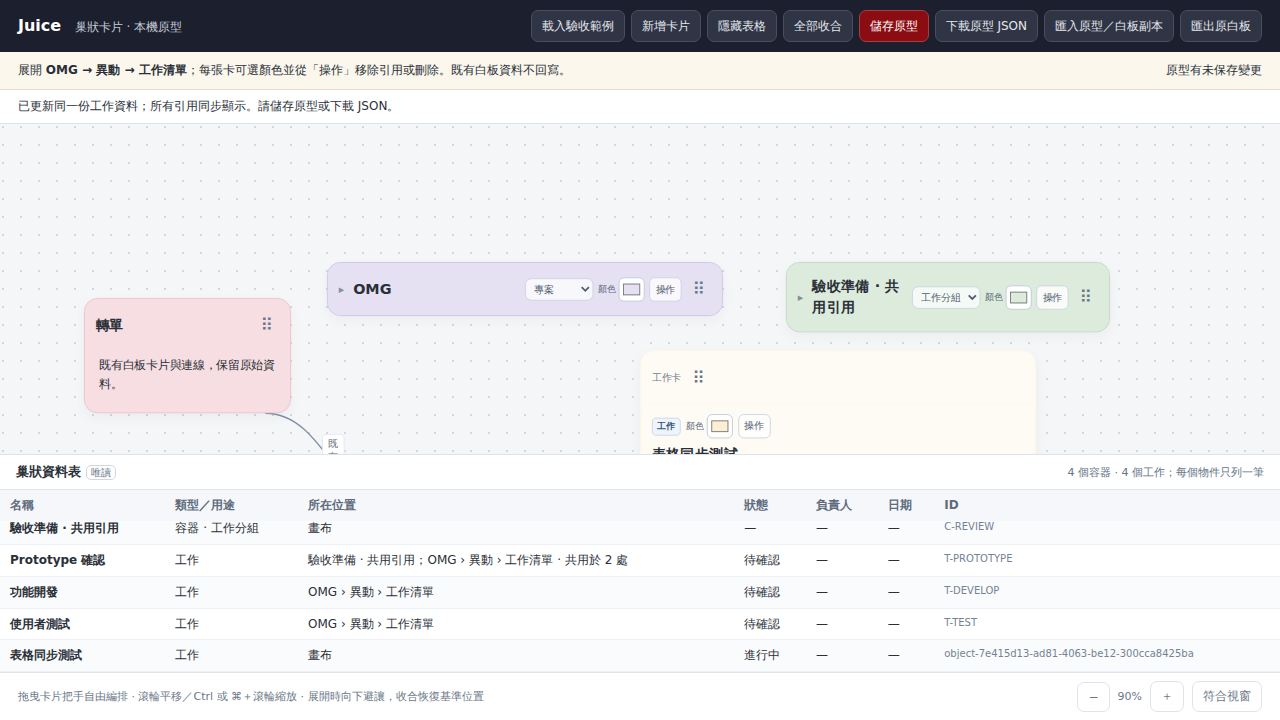
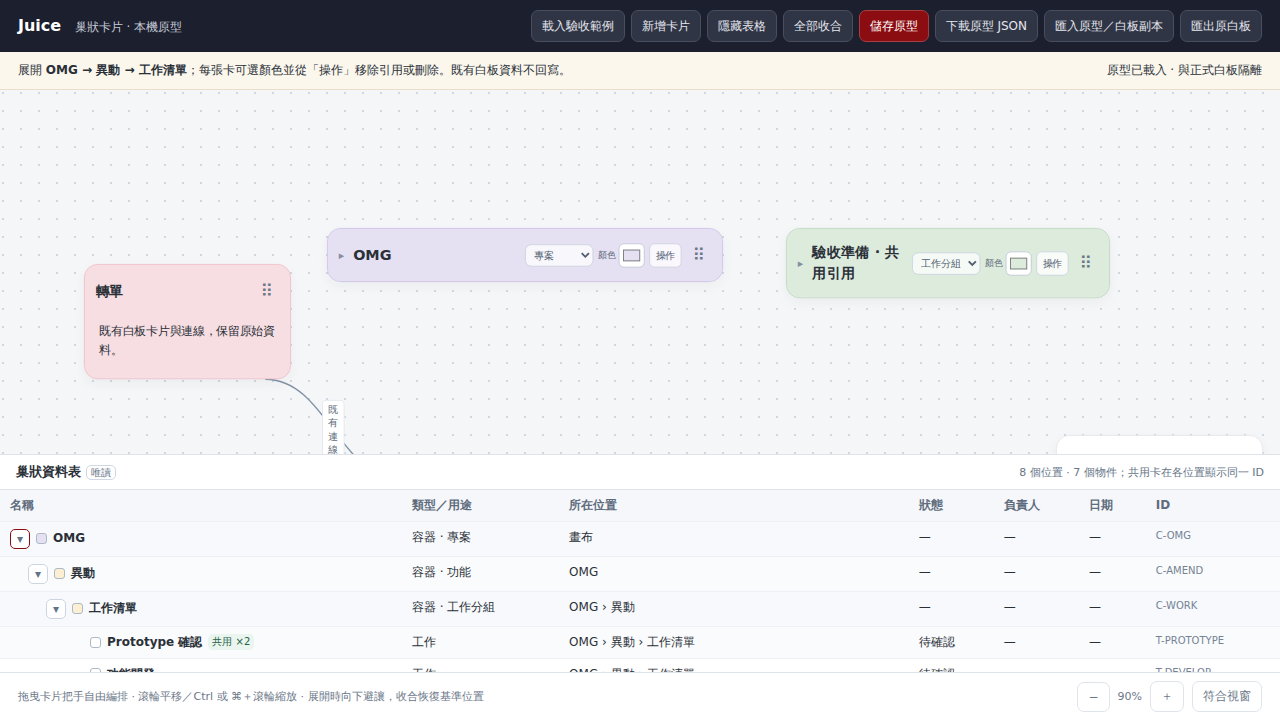
Show nested references in read-only tree table

diff --git a/assets/nested-app.js b/assets/nested-app.js
@@ -5,7 +5,7 @@
   const purposes={general:'一般容器',project:'專案',feature:'功能','work-group':'工作分組'};
   const colors={paper:['#fff','#e6e8ec'],amber:['#fcefd3','#f2dda8'],sage:['#ddebdd','#bfd8bf'],blue:['#d8e6f5','#b5cfec'],rose:['#f7dee2','#efc2ca'],lavender:['#e6e0f3','#cfc3e8'],grey:['#eaecef','#d5d9df']};
   const canvas=$('canvas'),world=$('world'),content=$('content');let state=null,normalized=null,dirty=false,frame=null,observer=null,savedRaw=null,loading=false;
-  let items=[],positions=new Map(),pickerAction=null,dragging=null,revealPath=null;const drafts=new Map();
+  let items=[],positions=new Map(),pickerAction=null,dragging=null,revealPath=null;const drafts=new Map(),tableCollapsed=new Set();
   const NS='http://www.w3.org/2000/svg';
   function el(tag,text,cls){const n=document.createElement(tag);if(text!==undefined)n.textContent=text;if(cls)n.className=cls;return n;}
   function button(text,fn,cls){const b=el('button',text,cls);b.type='button';b.addEventListener('click',fn);return b;}
@@ -25,8 +25,9 @@
   function attempt(fn){try{fn();}catch(e){say(e.message,true);}}
   function toggle(path,key){attempt(()=>{state=C.toggle(state,path,key);revealPath=key==='details'&&state.ui.details.includes(path)?path:null;changed();render();});}
   function refCount(id){return state.memberships.filter(e=>e.objectId===id).length+state.placements.filter(p=>p.objectId===id).length;}
-  function tableLocations(){const byId=new Map(),overflow=new Set(),children=new Map();for(const edge of state.memberships){if(!children.has(edge.containerId))children.set(edge.containerId,[]);children.get(edge.containerId).push(edge);}const queue=state.placements.map(p=>({id:p.objectId,route:p.id,parents:[]}));for(let i=0;i<queue.length;i++){const item=queue[i],paths=byId.get(item.id)||[];if(paths.length>=4){overflow.add(item.id);continue;}paths.push({route:item.route,label:item.parents.join(' › ')||'畫布'});byId.set(item.id,paths);const parent=object(item.id);for(const edge of children.get(item.id)||[])queue.push({id:edge.objectId,route:item.route+'/'+edge.id,parents:[...item.parents,parent.title]});}return {byId,overflow};}
-  function renderTable(){if(!state)return;const {byId,overflow}=tableLocations(),body=$('tableRows');body.replaceChildren();for(const o of state.objects){const row=el('tr');row.dataset.objectId=o.id;const paths=[...new Set((byId.get(o.id)||[]).map(p=>p.label))],count=refCount(o.id),place=(paths.join('；')||'未放置')+(overflow.has(o.id)?'；其他位置…':'')+(count>1?' · 共用於 '+count+' 處':'');for(const value of [o.title,o.type==='container'?'容器 · '+(purposes[o.purpose||'general']||'一般容器'):'工作',place,o.type==='task'?names[o.status||'unknown']:'—',o.type==='task'?o.owner||'—':'—',o.type==='task'?o.dueDate||'—':'—',o.id])row.append(el('td',value));body.append(row);}const containers=state.objects.filter(o=>o.type==='container').length;$('tableCount').textContent=containers+' 個容器 · '+(state.objects.length-containers)+' 個工作；每個物件只列一筆';}
+  function renderTable(){if(!state)return;const body=$('tableRows'),children=new Map(),limit=500;body.replaceChildren();for(const edge of state.memberships){if(!children.has(edge.containerId))children.set(edge.containerId,[]);children.get(edge.containerId).push(edge);}let shown=0,truncated=false;
+    function visit(id,path,parents,depth){if(shown>=limit){truncated=true;return;}const o=object(id);if(!o)return;const row=el('tr');row.dataset.objectId=id;row.dataset.path=path;row.dataset.depth=String(depth);row.dataset.type=o.type;const nameCell=el('td'),name=el('div',undefined,'table-name');name.style.paddingLeft=Math.min(depth,8)*18+'px';if(o.type==='container'){const open=!tableCollapsed.has(path),toggle=button(open?'▾':'▸',()=>{open?tableCollapsed.add(path):tableCollapsed.delete(path);renderTable();},'table-branch');toggle.setAttribute('aria-label',(open?'收合表格 ':'展開表格 ')+o.title);toggle.setAttribute('aria-expanded',String(open));name.append(toggle);}else name.append(el('span','', 'table-spacer'));const swatch=el('span',undefined,'table-swatch');swatch.style.background=/^#[0-9a-fA-F]{6}$/.test(o.color||'')?o.color:colors[o.color||'paper']?.[0]||'#fff';name.append(swatch,el('span',o.title));const count=refCount(id);if(count>1)name.append(el('span','共用 ×'+count,'table-shared'));nameCell.append(name);row.append(nameCell);for(const value of [o.type==='container'?'容器 · '+(purposes[o.purpose||'general']||'一般容器'):'工作',parents.join(' › ')||'畫布',o.type==='task'?names[o.status||'unknown']:'—',o.type==='task'?o.owner||'—':'—',o.type==='task'?o.dueDate||'—':'—',o.id])row.append(el('td',value));body.append(row);shown++;if(o.type==='container'&&!tableCollapsed.has(path))for(const edge of children.get(id)||[])visit(edge.objectId,path+'/'+edge.id,[...parents,o.title],depth+1);}
+    for(const p of state.placements)visit(p.objectId,p.id,[],0);if(truncated){const row=el('tr'),cell=el('td','已顯示 500 個位置；收合部分群組後可查看其他分支。','table-limit');cell.colSpan=7;row.append(cell);body.append(row);} $('tableCount').textContent=shown+' 個位置 · '+state.objects.length+' 個物件；共用卡在各位置顯示同一 ID';}
   function quickUpdate(id,field,value){attempt(()=>{state=C.patchTask(state,id,{[field]:value});changed();refreshReferences(id);renderTable();say('已更新同一份工作資料；所有引用同步顯示。請儲存原型或下載 JSON。');});}
   function refreshReferences(id){const o=object(id);for(const node of content.querySelectorAll('[data-task-id]')){if(node.dataset.taskId!==id)continue;node.querySelector('.task-title').textContent=o.title;node.querySelector('.reference-count').textContent=referenceText(o);node.querySelector('.task-date').textContent='日期：'+(o.dueDate||'待確認');for(const f of node.querySelectorAll('[data-quick-field]'))f.value=f.dataset.quickField==='status'?o.status||'unknown':o.owner||'';}scheduleLayout();}
   function taskCard(o,path){
@@ -99,7 +100,7 @@
   $('add').onclick=()=>{const type=field('卡片類型','select',[['container','容器卡'],['task','工作卡']]),purpose=field('容器用途','select',Object.entries(purposes)),title=field('標題','text'),shade=field('卡片顏色','color');title.input.required=true;title.input.maxLength=200;shade.input.value='#fcefd3';type.input.addEventListener('change',()=>{purpose.wrap.hidden=type.input.value!=='container';});showPicker('新增畫布卡片',[type.wrap,purpose.wrap,title.wrap,shade.wrap],()=>{const v=state.ui.view,p={x:(canvas.clientWidth/2-v.x)/v.zoom,y:(100-v.y)/v.zoom,w:440,h:220};for(let pass=0;pass<=positions.size;pass++){const hits=[...positions.values()].filter(b=>C.overlaps(p,b,20));if(!hits.length)break;p.y=Math.max(...hits.map(b=>b.y+b.h+20));}state=C.addObject(state,type.input.value,title.input.value,p,purpose.input.value,shade.input.value);changed();render();});};
   $('pickerCancel').onclick=()=>$('picker').close();$('pickerForm').onsubmit=e=>{e.preventDefault();try{pickerAction();$('picker').close();}catch(err){$('pickerError').textContent=err.message;}};
   function canReplace(){return !(dirty||drafts.size)||confirm('有未保存的原型修改，確定捨棄並載入其他資料？');}
-  function adopt(d){const next=C.validate(d),board=Base.normalize(next.board);state=next;normalized=board;drafts.clear();dirty=false;render();}
+  function adopt(d){const next=C.validate(d),board=Base.normalize(next.board);state=next;normalized=board;drafts.clear();tableCollapsed.clear();dirty=false;render();}
   $('demo').onclick=()=>{if(canReplace()){adopt(C.seed());say('驗收範例已載入；狀態、負責人與日期都保留待確認。');}};
   $('collapse').onclick=()=>{state.ui.expanded=[];state.ui.details=[];changed();render();say('已全部收合；避讓位置重新從基準座標計算，不改寫原白板。');};
   function readyToSave(){if(drafts.size){say('請先儲存或還原工作卡的詳細編輯，再保存原型。',true);return false;}return true;}

diff --git a/assets/nested-cards.css b/assets/nested-cards.css
@@ -6,6 +6,7 @@ header button{font-size:12px;color:#e4e7ee;background:#303545;border-color:#484e
 .notice{display:flex;justify-content:space-between;flex-wrap:wrap;gap:8px;padding:9px 18px;background:#fbf7ed;border-bottom:1px solid #e9dfc8;font-size:12px;line-height:1.6}#savedState{font-weight:500}#message{font-size:12px;margin:0;padding:0 18px;line-height:1.7}#message:not(:empty){padding-top:6px;padding-bottom:6px;border-bottom:1px solid var(--line);background:white}#message.error{color:#a00}
 #canvas{position:relative;flex:1;min-height:240px;overflow:hidden;background-color:#f5f6f8;background-image:radial-gradient(#ced7e2 1.2px,transparent 1.2px);background-size:20px 20px;touch-action:none;cursor:grab}#canvas.panning{cursor:grabbing}#world{position:absolute;top:0;left:0;transform-origin:0 0}#links{position:absolute;top:0;left:0;width:1px;height:1px;overflow:visible;pointer-events:none;z-index:0}
 .table-panel{flex:none;height:218px;min-height:140px;display:flex;flex-direction:column;background:#fff;border-top:1px solid var(--line)}.table-panel[hidden]{display:none}.table-heading{display:flex;align-items:baseline;justify-content:space-between;gap:12px;padding:8px 16px;border-bottom:1px solid var(--line)}.table-heading h2{font-size:13px;margin:0}.table-heading h2 span{font-size:10px;font-weight:400;color:#667587;border:1px solid #cfd8e2;border-radius:5px;padding:1px 4px}.table-heading p{font-size:11px;color:#667587;margin:0}.table-scroll{min-height:0;overflow:auto;flex:1}.table-panel table{border-collapse:collapse;width:100%;min-width:830px;font-size:12px}.table-panel th,.table-panel td{text-align:left;vertical-align:top;border-bottom:1px solid #edf0f4;padding:7px 10px;line-height:1.4}.table-panel th{position:sticky;top:0;background:#f5f7fa;color:#5e6c7d;z-index:1;white-space:nowrap}.table-panel tbody tr:nth-child(even){background:#fafbfc}.table-panel td:first-child{font-weight:600}.table-panel td:nth-child(3){min-width:230px;max-width:410px;overflow-wrap:anywhere}.table-panel td:last-child{font-size:10px;color:#748294;white-space:nowrap}
+.table-panel tr[data-type="container"]{background:#f7f9fc}.table-name{display:flex;align-items:center;gap:6px;min-width:180px}.table-branch{min-width:20px;width:20px;height:20px;min-height:20px;padding:0;border:1px solid #ccd6e2;border-radius:5px;background:white;color:#60748c;font-size:12px;line-height:1}.table-spacer{width:20px;flex:none}.table-swatch{width:11px;height:11px;flex:none;border:1px solid #aeb9c6;border-radius:3px}.table-shared{flex:none;border-radius:5px;background:#e9f5ee;color:#286248;padding:1px 4px;font-size:10px;font-weight:500}.table-panel .table-limit{color:#8b491c;background:#fff7eb;font-weight:500}
 .legacy-edge{stroke:#8191a5;stroke-width:1.5;fill:none}.legacy-tip{fill:#8191a5}.edge-label{position:absolute;transform:translate(-50%,-50%);font-size:11px;color:#5e6b7b;background:#fff;padding:2px 6px;border:1px solid #e2e6ec;border-radius:5px;z-index:2;pointer-events:none;max-width:240px;overflow-wrap:anywhere}
 .board-card{position:absolute;border:1px solid var(--line);border-radius:15px;background:#fff;box-shadow:0 5px 13px #1f29370b;cursor:default;transition:box-shadow .14s ease;z-index:3}.board-card.dragging{transition:none!important;z-index:8!important;box-shadow:0 8px 30px #1f293728}.board-card.menu-open{z-index:12}.board-card.avoided{box-shadow:0 5px 16px #1f293714}
 .board-card .card-head{display:flex;align-items:center;gap:5px;min-height:58px;padding:8px 12px}.drag-handle{background:transparent;border:0;color:#697786;cursor:grab;padding:4px;min-width:28px;min-height:30px;font-size:19px;touch-action:none}.drag-handle:active{cursor:grabbing}

diff --git a/nested-cards.html b/nested-cards.html
@@ -1,5 +1,5 @@
 <!doctype html>
-<html lang="zh-Hant"><head><meta charset="UTF-8"><meta name="viewport" content="width=device-width,initial-scale=1"><title>Juice · 巢狀卡片原型</title><link rel="stylesheet" href="assets/nested-cards.css?v=table-1"></head>
+<html lang="zh-Hant"><head><meta charset="UTF-8"><meta name="viewport" content="width=device-width,initial-scale=1"><title>Juice · 巢狀卡片原型</title><link rel="stylesheet" href="assets/nested-cards.css?v=hierarchy-1"></head>
 <body>
 <header><div class="brand">Juice <span>巢狀卡片 · 本機原型</span></div><div class="tools"><button id="demo">載入驗收範例</button><button id="add">新增卡片</button><button id="toggleTable" type="button" aria-controls="tablePanel" aria-expanded="true">隱藏表格</button><button id="collapse">全部收合</button><button id="save">儲存原型</button><button id="export">下載原型 JSON</button><button id="import">匯入原型／白板副本</button><button id="sourceExport">匯出原白板</button><input id="file" type="file" accept=".json,application/json" hidden></div></header>
 <div class="notice"><span>展開 <strong>OMG → 異動 → 工作清單</strong>；每張卡可選顏色並從「操作」移除引用或刪除。既有白板資料不回寫。</span><span id="savedState" role="status"></span></div>
@@ -8,5 +8,5 @@
 <section id="tablePanel" class="table-panel" aria-labelledby="tableTitle"><div class="table-heading"><h2 id="tableTitle">巢狀資料表 <span>唯讀</span></h2><p id="tableCount" aria-live="polite"></p></div><div class="table-scroll"><table aria-label="巢狀資料唯讀表"><thead><tr><th scope="col">名稱</th><th scope="col">類型／用途</th><th scope="col">所在位置</th><th scope="col">狀態</th><th scope="col">負責人</th><th scope="col">日期</th><th scope="col">ID</th></tr></thead><tbody id="tableRows"></tbody></table></div></section>
 <footer><span>拖曳卡片把手自由編排 · 滾輪平移／Ctrl 或 ⌘＋滾輪縮放 · 展開時向下避讓，收合恢復基準位置</span><div><button id="zoomOut" aria-label="縮小白板">−</button><span id="zoom">90%</span><button id="zoomIn" aria-label="放大白板">＋</button><button id="fit">符合視窗</button></div></footer>
 <dialog id="picker"><form id="pickerForm"><h2 id="pickerTitle"></h2><div id="pickerFields"></div><p id="pickerError" role="alert"></p><div class="dialog-actions"><button type="button" id="pickerCancel">取消</button><button type="submit">確認</button></div></form></dialog>
-<script id="peleLib" async src="https://cdn.jsdelivr.net/npm/pele@1.9.0/dist/pele.global.js"></script><script src="assets/core.js"></script><script src="assets/pele-flow.js"></script><script src="assets/nested-core.js?v=manage-1"></script><script src="assets/nested-app.js?v=table-1"></script>
+<script id="peleLib" async src="https://cdn.jsdelivr.net/npm/pele@1.9.0/dist/pele.global.js"></script><script src="assets/core.js"></script><script src="assets/pele-flow.js"></script><script src="assets/nested-core.js?v=manage-1"></script><script src="assets/nested-app.js?v=hierarchy-1"></script>
 </body></html>

diff --git a/docs/nested-cards.md b/docs/nested-cards.md
@@ -11,7 +11,7 @@
 5. 展開後附近卡片向下避讓，連線端點跟著更新。按「全部收合」會恢復基準座標。拖曳把手或用方向鍵移動，可自行編排；滾輪平移、Ctrl／⌘＋滾輪縮放，底部可符合視窗。
 6. 按 **儲存原型** 後重新整理，核對引用、資料、展開狀態與位置。也可下載原型 JSON，再從「匯入原型／白板副本」重開。
 7. 每張巢狀卡可直接選「顏色」。卡片上的「操作」可移除此處引用，或刪除卡片本身；刪除前會要求確認。移除最後一處巢狀引用時，卡片會移到畫布上；刪除容器時，其失去所有位置的子卡片也會移到畫布上。
-8. 畫布下方的「巢狀資料表」預設展開，唯讀顯示容器與工作。新增工作、修改狀態或負責人後會立即同步；「隱藏表格」可讓畫布取得更多空間。表格不另存資料，重載前仍須按「儲存原型」。
+8. 畫布下方的「巢狀資料表」預設展開，依畫布的父子引用縮排顯示容器與工作。點表格中的箭頭可獨立展開／收合分支；同一張共用卡會在每個位置出現，ID 與資料相同。新增工作、修改狀態或負責人後會立即同步；「隱藏表格」可讓畫布取得更多空間。表格不另存資料，重載前仍須按「儲存原型」。
 
 截圖裡的完成、Iris、10/25 都只當介面示意，沒有變成範例的真實狀態。初始狀態、負責人與日期均為待確認。
 
@@ -44,7 +44,7 @@
 
 顏色只作視覺辨識，不代表固定業務狀態。原有色票可繼續讀取；使用者可替每張容器卡或工作卡選擇自訂色，保存為安全的 `#RRGGBB` 值。共用卡片的顏色也會同步。操作選單中的「移除此處引用」只處理這個位置，「刪除卡片」會移除這張卡的所有引用；刪除容器不連帶刪除子卡片。這些變更都要按「儲存原型」才會寫進本機存檔，亦可先下載 JSON 備份。
 
-唯讀表格直接從同一份 `objects`、`memberships` 與 `placements` 推出每筆名稱、用途、位置路徑、狀態、負責人及日期；共用工作只列一筆。路徑最多顯示四種位置，超出時標示「其他位置」，不會截掉原始引用資料。[新增工作並更新狀態的畫面](screenshots/nested-readonly-table.png)。
+唯讀表格直接從同一份 `objects`、`memberships` 與 `placements` 逐層呈現畫布位置、容器及工作，顯示名稱、用途、上層路徑、狀態、負責人、日期與穩定 ID。共用物件在每個引用位置各顯示一列；若共用容器，其子樹也在每個位置呈現。表格的展開狀態按完整引用路徑區分，只影響表格畫面，不改白板展開狀態或儲存資料。可見列達 500 筆時明示上限，可先收合分支；原始引用資料不會被截掉。[巢狀表格畫面](screenshots/nested-readonly-table.png)。
 
 ## 避讓規則
 
@@ -68,6 +68,8 @@
 
 移除／刪除與改色增量驗證：巢狀資料單元測試 15／15、介面測試 21／21、整站瀏覽器測試 125／125 通過。包含共用引用局部移除、最後引用移至畫布、刪除容器保留子卡片、全域刪除共用工作、舊色票及自訂色重載。
 
-唯讀表格增量驗證：巢狀介面測試 23／23、整站瀏覽器測試 127／127 通過。新增頂層工作後表格立即增加一筆；在白板將其狀態改為「進行中」後，表格同一 ID 的列立即更新；保存並重載後仍一致。共用工作在表格只列一筆，移除其中一處引用後位置文字同步更新。
+唯讀表格初版驗證：巢狀介面測試 23／23、整站瀏覽器測試 127／127 通過。新增頂層工作後表格立即增加一筆；在白板將其狀態改為「進行中」後，表格同一 ID 的列立即更新；保存並重載後仍一致。此版本之後改為依各引用位置呈現巢狀列。
+
+巢狀表格增量驗證：巢狀資料單元測試 15／15、整站瀏覽器測試 128／128 通過。共用工作與共用容器子樹在每個位置各出現一列；表格收合不改白板狀態，工作資料更新會同步至各列。
 
 [新增的卡片操作與顏色選擇畫面](screenshots/nested-card-actions-colors.png)。
